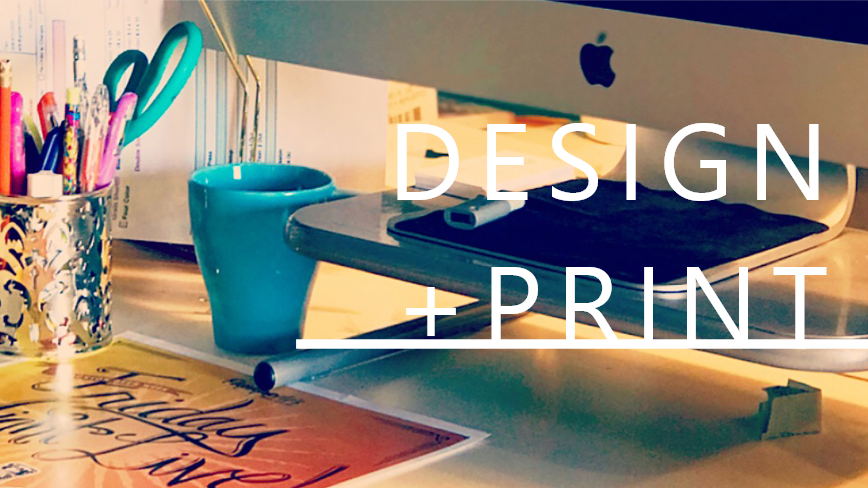
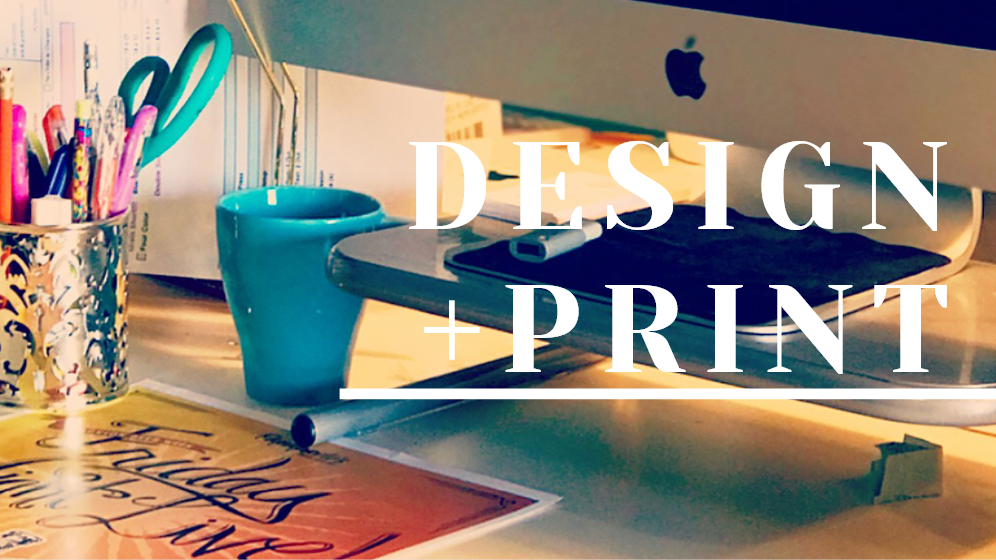
Updated images and added Nunito font

diff --git a/css/style.css b/css/style.css
@@ -33,7 +33,7 @@ Design
     color: #030303;
     background-color: #89DDD8;
     border-color: #89DDD8;
-    font-family: 'Open Sans', sans-serif;
+    font-family: 'Nunito', sans-serif;
     box-shadow: 0px 3px 6px #00000029;
 }
 
@@ -73,7 +73,7 @@ Production
     color: #030303;
     background-color: #FF9D81;
     border-color: #FF9D81;
-    font-family: 'Open Sans', sans-serif;
+    font-family: 'Nunito', sans-serif;
     box-shadow: 0px 3px 6px #00000029;
 }
 
@@ -113,7 +113,7 @@ Solution
     color: #030303;
     background-color: #FFDA00;
     border-color: #FFDA00;
-    font-family: 'Open Sans', sans-serif;
+    font-family: 'Nunito', sans-serif;
     box-shadow: 0px 3px 6px #00000029;
 }
 
@@ -152,7 +152,7 @@ Design Slides
 .design-card-slides {
     background-image: url(../images/Design-background.png);
     background-size: 100% 100%;
-    font-family: 'Open Sans', sans-serif;
+    font-family: 'Nunito', sans-serif;
 }
 
 /*
@@ -162,7 +162,7 @@ Production-Slides
 .production-card-slides {
     background-image: url(../images/Production-background.png);
     background-size: 100% 100%;
-    font-family: 'Open Sans', sans-serif;
+    font-family: 'Nunito', sans-serif;
 }
 
 /*
@@ -172,7 +172,7 @@ solutions-Slides
 .solutions-card-slides {
     background-image: url(../images/solutions-background.png);
     background-size: 100% 100%;
-    font-family: 'Open Sans', sans-serif;
+    font-family: 'Nunito', sans-serif;
 }
 
 /*
@@ -194,7 +194,7 @@ General
     color: #030303;
     background-color: white;
     border-color: white;
-    font-family: 'Open Sans', sans-serif;
+    font-family: 'Nunito', sans-serif;
     width: 85%;
     box-shadow: 0px 3px 6px #00000029;
 }

diff --git a/index.html b/index.html
@@ -52,18 +52,28 @@
 	</div>
 
   <!-- HERO/CAROUSEL -->
-  <div id="carouselExampleSlidesOnly" class="carousel slide" data-ride="carousel" style="padding-top: 93.36px;">
+ 
+  </div> -->
+  <div id="carouselExampleControls" class="carousel slide" data-ride="carousel" style="padding-top: 69.36px;">
     <div class="carousel-inner">
       <div class="carousel-item active">
-        <img src="./images/thing.png" class="d-block w-100" alt="...">
+        <img class="d-block w-100" src="./images/thing.png" alt="First slide">
       </div>
       <div class="carousel-item">
-        <img src="./images/Design-Print.png" class="d-block w-100" alt="...">
+        <img class="d-block w-100" src="./images/Design-Print.png" alt="Second slide">
       </div>
       <div class="carousel-item">
-        <img src="./images/Made-With-Care.png" class="d-block w-100" alt="...">
+        <img class="d-block w-100" src="./images/Made-With-Care.png" alt="Third slide">
       </div>
     </div>
+    <a class="carousel-control-prev" href="#carouselExampleControls" role="button" data-slide="prev">
+      <span class="carousel-control-prev-icon" aria-hidden="true"></span>
+      <span class="sr-only">Previous</span>
+    </a>
+    <a class="carousel-control-next" href="#carouselExampleControls" role="button" data-slide="next">
+      <span class="carousel-control-next-icon" aria-hidden="true"></span>
+      <span class="sr-only">Next</span>
+    </a>
   </div>
 <!--Computer cards-->
   <div id="about" class="container-fluid AboutUs  pb-5">

diff --git a/js/script.js b/js/script.js
@@ -520,3 +520,14 @@ function designInjection(){
     innerRow.appendChild(imgCol3);
     imgCol3.appendChild(imgTag3);
 }
+
+// MESSAGE BUTTON
+let messageBtn = document.getElementById("messageBtn");
+
+messageBtn.addEventListener("click", function () {
+  messageBtn.classList.add('messageSent');
+  messageBtn.innerText = "MESSAGE SENT";
+  alert("Message Sent!");
+
+  messageBtn.innerHTML = '<b>MESSAGE SENT! </b><i class="far fa-paper-plane pl-1"></i>';
+});
